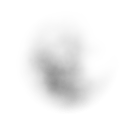
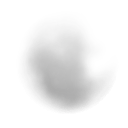
Update smoke

Changed region(s): [[0.375, 0.5, 0.4688, 0.6875]]

diff --git a/lib/graphics/ship.rb b/lib/graphics/ship.rb
@@ -26,8 +26,8 @@ module Spacestuff
         color = Gosu::Color::WHITE.dup
         color.alpha = 255 - (bullet.percentage_lifetime * 255/100)
         @font ||= Gosu::Font.new($window, Gosu::default_font_name, 15)
-        size = 0.5 + bullet.percentage_lifetime/100.0
-        @image.draw_rot(bullet.x - viewport.x, bullet.y - viewport.y, 2, bullet.angle.to_degrees + 90, 0.5, 0.5, size, size, color)
+        size = 0.25 + bullet.percentage_lifetime/200.0
+        @image.draw_rot(bullet.x - viewport.x, bullet.y - viewport.y, 2, bullet.angle.to_degrees, 0.5, 0.5, size, size, color)
       end
     end
     class CelestialBody
